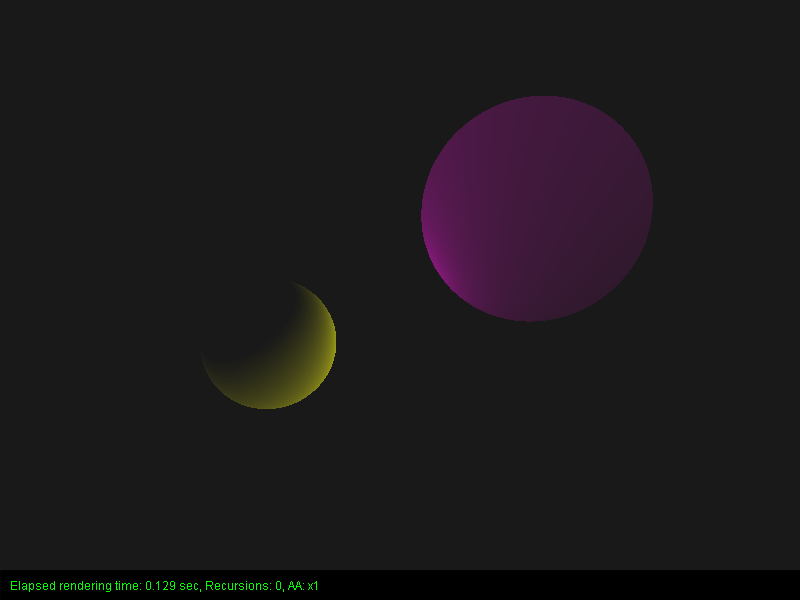
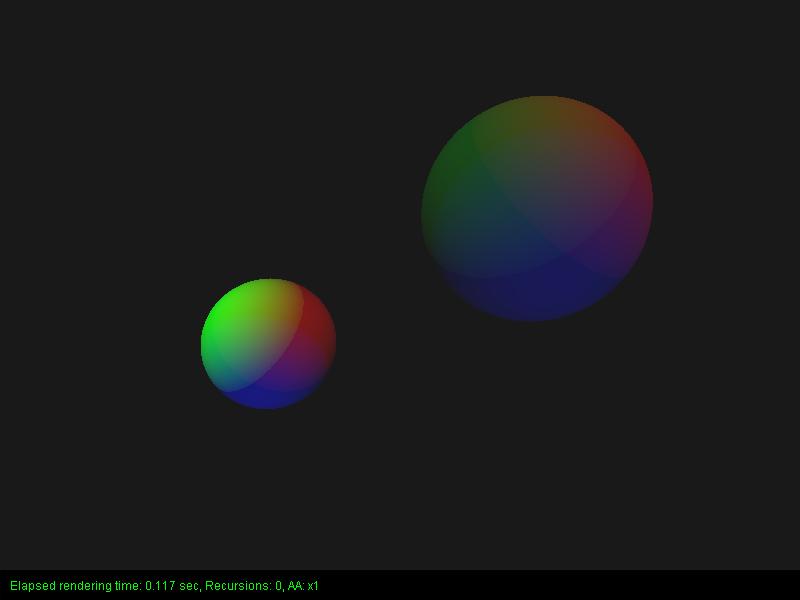
hmmmmm

Changed region(s): [[0.5, 0.15, 0.8125, 0.54], [0.25, 0.45, 0.4375, 0.69]]

diff --git a/VCG_Raytracer/src/scene/Scene.java b/VCG_Raytracer/src/scene/Scene.java
@@ -30,7 +30,7 @@ public class Scene {
         Log.print(this, "Init");
 
         //create materials
-        Material mat_lambert = new Lambert(new RgbColor(0.9f,0.2f,0.5f));
+        Material mat_lambert = new Lambert(new RgbColor(0.6f,0.2f,0.5f));
         Material mat_lambert2 = new Lambert(new RgbColor(0.8f,0.8f,0.8f));
 
         //create spheres
@@ -38,9 +38,9 @@ public class Scene {
         createSphere(new Vec3(-1.5f,-0.5f,0), 0.75f, mat_lambert2);
 
         //create lights
-        createPointLight(new Vec3 (3f,3f,0), RgbColor.PURPLE);
-        createPointLight(new Vec3 (0f,0f,1), RgbColor.RED);
-        createPointLight(new Vec3(-2, -3, -2), RgbColor.YELLOW);
+        createPointLight(new Vec3 (-2.5f,2.5f,3), RgbColor.GREEN);
+        createPointLight(new Vec3 (2.5f,2.5f,3), RgbColor.RED);
+        createPointLight(new Vec3(0, -2.5f, 3), RgbColor.BLUE);
         ambient_k = new RgbColor(0.1f,0.1f,0.1f);
     }
 
@@ -117,14 +117,27 @@ public class Scene {
             float distance = currentLight.getPosition()
                             .sub(_intersection.getIntersectionPoint())
                             .length();
-            diffuse = diffuse.multScalar(distance * 0.25f); // *0.25 due to else impact either too big or too smol 
+            //diffuse = diffuse.multScalar(distance * 0.25f); // *0.25 due to else impact either too big or too smol 
             //value just depends on light distance which makes sense as you want further lights to have less impact....
             //but for this surely there has to be a better way to make it seem balanced no?
 
+
+            //maybe here sekundärstrahl von schnittpunkt zu lichtquelle und if no path found then dont add?
+            //gotta prob create a new ray here and test with that? i dunno
+            float distplusnorm = currentLight.getPosition()
+                                .sub((_intersection.getIntersectionPoint()).add(_intersection.getNormal()))
+                                .length();
+            
+
             //System.out.println("DIFFUSE COLOR: " + diffuse);
-            pointColor.add(diffuse.red(), diffuse.green(), diffuse.blue());
+            if(distplusnorm < distance) //check if we are looking at the light or not //i dont think this is actually needed since already done in 
+                pointColor.add(diffuse.red(), diffuse.green(), diffuse.blue());
             //System.out.println("SHAPE COLOR: " + pointColor);
         }
+
+        //pretty sure this aint wanted since it just makes it a lot darker
+        //pointColor = new RgbColor(pointColor.red()/getLights().size(), pointColor.green()/getLights().size(), pointColor.blue()/getLights().size());
+
 
         return pointColor;
     }

diff --git a/VCG_Raytracer/src/scene/shape/Sphere.java b/VCG_Raytracer/src/scene/shape/Sphere.java
@@ -206,9 +206,9 @@ public class Sphere extends Shape{
         intersection.setInRay(ray.calculateRayAt(t)); // primary Ray
 
         //tim testing
-        intersection.setIntersectionPoint(myTransformationMatrix.multVec3(ray_origin.add(ray_direction.multScalar(t)), true));
-        intersection.setNormal(myTransformationMatrix.multVec3(intersection.getIntersectionPoint().normalize(), false));
-        intersection.setInRay(transformedRay.calculateRayAt(t)); 
+        //intersection.setIntersectionPoint(myTransformationMatrix.multVec3(ray_origin.add(ray_direction.multScalar(t)), true));
+        //intersection.setNormal(myTransformationMatrix.multVec3(intersection.getIntersectionPoint().normalize(), false));
+        //intersection.setInRay(transformedRay.calculateRayAt(t)); 
 
         return intersection;
     }

diff --git a/VCG_Raytracer/src/scene/material/Phong.java b/VCG_Raytracer/src/scene/material/Phong.java
@@ -26,7 +26,7 @@ public class Phong extends Material {
         // Calculating the necessary Vectors for diffuse light component:
         // I * kd * (N x L) <- [(N x L)]
         Vec3 normal = _normal.normalize();
-        Vec3 vec_light = _position.sub(lightPosition).normalize();
+        Vec3 vec_light = lightPosition.sub(_position).normalize();
         Float scalar_normal_light = normal.scalar(vec_light);
 
         // Scalarproduct has to be above 0, else Light doesn't hit this point
